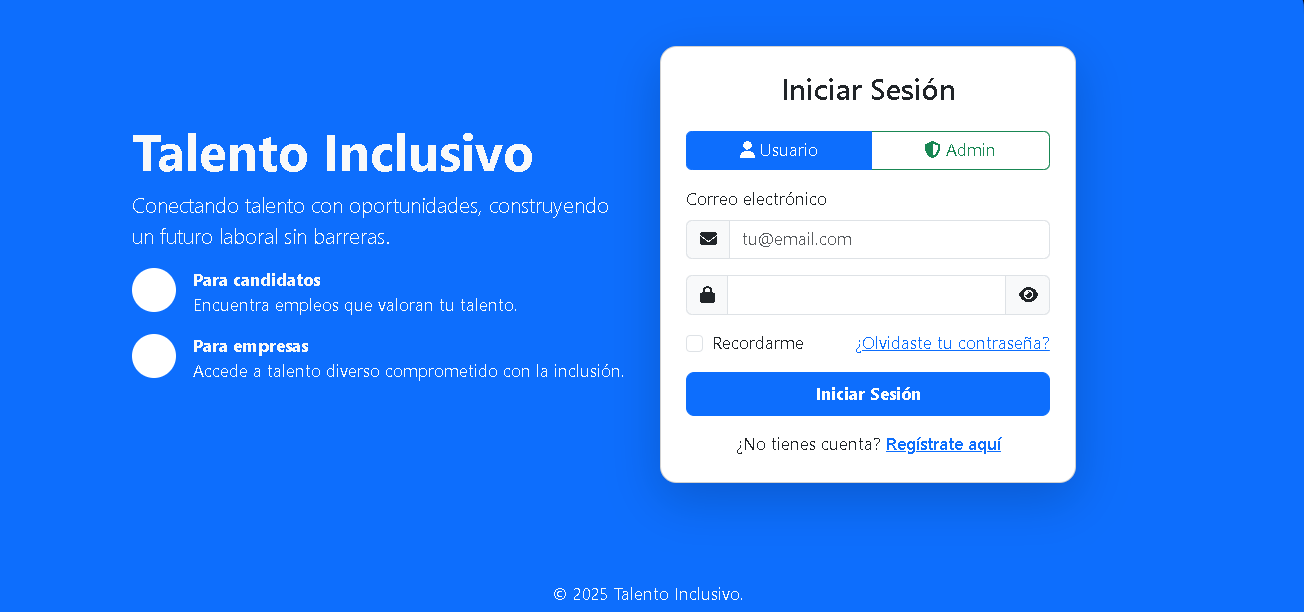
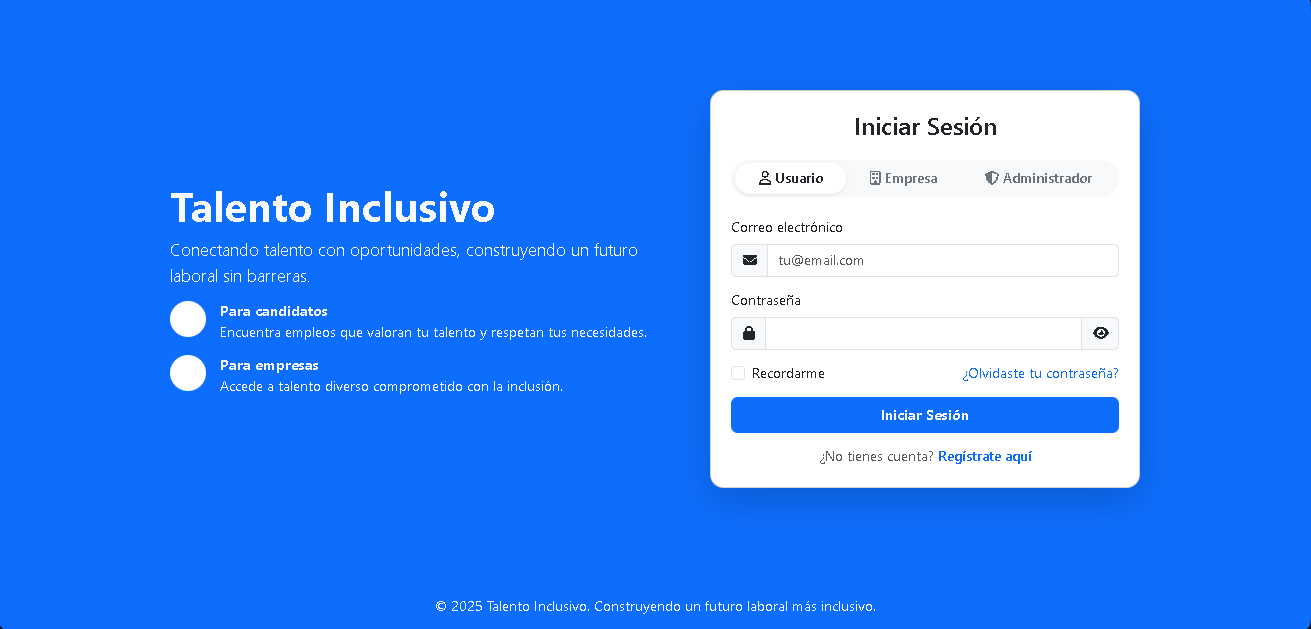
Actualizacion de la imagen preview.png

diff --git a/User/perfil.html b/User/perfil.html
@@ -1,5 +1,6 @@
 <!DOCTYPE html>
 <html lang="es">
+
 <head>
     <meta charset="UTF-8">
     <meta name="viewport" content="width=device-width, initial-scale=1.0">
@@ -29,11 +30,16 @@
 
             <div id="menu" class="collapse navbar-collapse">
                 <ul class="navbar-nav ms-auto align-items-center">
-                    <li class="nav-item"><a class="nav-link px-3" href="user_home.html"><i class="fa fa-home-alt me-1"></i> Inicio</a></li>
-                    <li class="nav-item"><a class="nav-link active fw-bold px-3" href="perfil.html"><i class="fa fa-user me-1"></i> Perfil</a></li>
-                    <li class="nav-item"><a class="nav-link px-3" href="mensajeria.html"><i class="fa fa-envelope me-1"></i> Mensajes</a></li>
-                    <li class="nav-item"><a class="nav-link px-3" href="validacion_ofertas.html"><i class="fa fa-briefcase me-1"></i> Ofertas</a></li>
-                    <li class="nav-item"><a class="nav-link px-3" href="seguimiento.html"><i class="fa fa-tasks me-1"></i> Seguimiento</a></li>
+                    <li class="nav-item"><a class="nav-link px-3" href="user_home.html"><i
+                                class="fa fa-home-alt me-1"></i> Inicio</a></li>
+                    <li class="nav-item"><a class="nav-link active fw-bold px-3" href="perfil.html"><i
+                                class="fa fa-user me-1"></i> Perfil</a></li>
+                    <li class="nav-item"><a class="nav-link px-3" href="mensajeria.html"><i
+                                class="fa fa-envelope me-1"></i> Mensajes</a></li>
+                    <li class="nav-item"><a class="nav-link px-3" href="validacion_ofertas.html"><i
+                                class="fa fa-briefcase me-1"></i> Ofertas</a></li>
+                    <li class="nav-item"><a class="nav-link px-3" href="seguimiento.html"><i
+                                class="fa fa-tasks me-1"></i> Seguimiento</a></li>
                     <li class="nav-item ms-lg-3">
                         <button class="btn btn-outline-light rounded-pill px-4 shadow-sm" id="logoutBtn">
                             <i class="fa fa-sign-out-alt me-1"></i> Salir
@@ -51,9 +57,10 @@
             <div class="col-lg-4">
                 <div class="card border-0 shadow-sm rounded-4 mb-4 text-center p-5 profile-sidebar">
                     <div class="profile-img-wrap mb-4">
-                        <img id="profilePhoto" src="https://cdn-icons-png.flaticon.com/512/149/149071.png" alt="Profile Image">
+                        <img id="profilePhoto" src="https://cdn-icons-png.flaticon.com/512/149/149071.png"
+                            alt="Profile Image">
                     </div>
-                    
+
                     <h4 class="fw-bold mb-1" id="sidebarName">Usuario</h4>
                     <p class="verified-badge mb-4">Usuario verificado</p>
 
@@ -103,10 +110,14 @@
             <div class="col-lg-8">
                 <!-- TABS NAVIGATION -->
                 <div class="bg-white p-2 rounded-4 shadow-sm mb-4 d-flex nav-segmented nav nav-pills">
-                    <button type="button" class="flex-fill nav-link active" data-bs-toggle="pill" data-bs-target="#personal">Datos Personales</button>
-                    <button type="button" class="flex-fill nav-link" data-bs-toggle="pill" data-bs-target="#disability">Discapacidad</button>
-                    <button type="button" class="flex-fill nav-link" data-bs-toggle="pill" data-bs-target="#laboral">Información Laboral</button>
-                    <button type="button" class="flex-fill nav-link" data-bs-toggle="pill" data-bs-target="#preferencias">Preferencias</button>
+                    <button type="button" class="flex-fill nav-link active" data-bs-toggle="pill"
+                        data-bs-target="#personal">Datos Personales</button>
+                    <button type="button" class="flex-fill nav-link" data-bs-toggle="pill"
+                        data-bs-target="#disability">Discapacidad</button>
+                    <button type="button" class="flex-fill nav-link" data-bs-toggle="pill"
+                        data-bs-target="#laboral">Información Laboral</button>
+                    <button type="button" class="flex-fill nav-link" data-bs-toggle="pill"
+                        data-bs-target="#preferencias">Preferencias</button>
                 </div>
 
                 <div class="tab-content">
@@ -139,7 +150,8 @@
                                     <label class="form-label">Fecha de nacimiento *</label>
                                     <div class="input-icon-wrap">
                                         <i class="fa-regular fa-calendar"></i>
-                                        <input type="text" class="form-control" id="reg-fecha-nacimiento" placeholder="DD/MM/YYYY">
+                                        <input type="text" class="form-control" id="reg-fecha-nacimiento"
+                                            placeholder="DD/MM/YYYY">
                                     </div>
                                 </div>
                                 <div class="col-12">
@@ -177,7 +189,8 @@
                                 </div>
 
                                 <div class="col-12 mt-5 d-flex gap-3">
-                                    <button type="submit" class="btn btn-primary d-flex align-items-center btn-save text-white">
+                                    <button type="submit"
+                                        class="btn btn-primary d-flex align-items-center btn-save text-white">
                                         <i class="fa-regular fa-floppy-disk me-2"></i> Guardar cambios
                                     </button>
                                     <button type="button" class="btn btn-cancel">Cancelar</button>
@@ -190,7 +203,8 @@
                     <div class="tab-pane fade" id="disability">
                         <div class="card border-0 shadow-sm rounded-4 p-4 p-md-5">
                             <div class="d-flex align-items-start mb-4">
-                                <div class="bg-primary-subtle text-primary p-2 rounded-3 me-3" style="width: 40px; height: 40px; display: flex; align-items: center; justify-content: center;">
+                                <div class="bg-primary-subtle text-primary p-2 rounded-3 me-3"
+                                    style="width: 40px; height: 40px; display: flex; align-items: center; justify-content: center;">
                                     <i class="fa-solid fa-shield-halved"></i>
                                 </div>
                                 <div>
@@ -198,12 +212,13 @@
                                     <p class="text-muted small">Datos confidenciales según ISO 9999 y RGPD</p>
                                 </div>
                             </div>
-                            
+
                             <!-- Orange Banner -->
                             <div class="alert alert-orange mb-5 d-flex align-items-start">
                                 <i class="fa-solid fa-circle-info mt-1 me-3"></i>
                                 <div>
-                                    <span class="fw-bold">Confidencialidad:</span> Esta información solo se compartirá con empresas cuando tú autorices explícitamente durante un proceso de postulación.
+                                    <span class="fw-bold">Confidencialidad:</span> Esta información solo se compartirá
+                                    con empresas cuando tú autorices explícitamente durante un proceso de postulación.
                                 </div>
                             </div>
 
@@ -227,42 +242,51 @@
                                 <div class="col-12">
                                     <label class="form-label">Número de certificado de discapacidad</label>
                                     <input type="text" class="form-control" id="reg-num-certificado">
-                                    <small class="text-muted d-block mt-1">Requerido para validación oficial (ISO 30415)</small>
+                                    <small class="text-muted d-block mt-1">Requerido para validación oficial (ISO
+                                        30415)</small>
                                 </div>
                                 <div class="col-12">
                                     <label class="form-label">Fecha de vencimiento del certificado</label>
                                     <div class="input-icon-wrap">
                                         <i class="fa-regular fa-calendar"></i>
-                                        <input type="text" class="form-control" id="reg-vencimiento-certificado" placeholder="DD/MM/YYYY">
+                                        <input type="text" class="form-control" id="reg-vencimiento-certificado"
+                                            placeholder="DD/MM/YYYY">
                                     </div>
                                 </div>
                                 <div class="col-12">
-                                    <label class="form-label">Adaptaciones o productos de apoyo necesarios (ISO 9999)</label>
+                                    <label class="form-label">Adaptaciones o productos de apoyo necesarios (ISO
+                                        9999)</label>
                                     <textarea class="form-control" id="reg-adaptaciones" rows="3"></textarea>
                                 </div>
 
                                 <div class="col-12 mt-4">
-                                    <p class="fw-bold text-dark mb-3">Asistencia requerida en el entorno laboral (ISO 21542)</p>
+                                    <p class="fw-bold text-dark mb-3">Asistencia requerida en el entorno laboral (ISO
+                                        21542)</p>
                                     <div class="form-check mb-3">
                                         <input class="form-check-input" type="checkbox" id="assist-accesibilidad">
-                                        <label class="form-check-label small ms-2">Accesibilidad física (rampas, ascensores, baños adaptados)</label>
+                                        <label class="form-check-label small ms-2">Accesibilidad física (rampas,
+                                            ascensores, baños adaptados)</label>
                                     </div>
                                     <div class="form-check mb-3">
                                         <input class="form-check-input" type="checkbox" id="assist-tecnologia">
-                                        <label class="form-check-label small ms-2">Tecnología asistiva (lectores de pantalla, magnificadores)</label>
+                                        <label class="form-check-label small ms-2">Tecnología asistiva (lectores de
+                                            pantalla, magnificadores)</label>
                                     </div>
                                     <div class="form-check mb-3">
                                         <input class="form-check-input" type="checkbox" id="assist-interprete">
-                                        <label class="form-check-label small ms-2">Intérprete de lengua de señas o subtítulos</label>
+                                        <label class="form-check-label small ms-2">Intérprete de lengua de señas o
+                                            subtítulos</label>
                                     </div>
                                     <div class="form-check">
                                         <input class="form-check-input" type="checkbox" id="assist-remoto">
-                                        <label class="form-check-label small ms-2">Horario flexible o trabajo remoto</label>
+                                        <label class="form-check-label small ms-2">Horario flexible o trabajo
+                                            remoto</label>
                                     </div>
                                 </div>
 
                                 <div class="col-12 mt-5 d-flex gap-3">
-                                    <button type="submit" class="btn btn-primary d-flex align-items-center btn-save text-white">
+                                    <button type="submit"
+                                        class="btn btn-primary d-flex align-items-center btn-save text-white">
                                         <i class="fa-regular fa-floppy-disk me-2"></i> Guardar cambios
                                     </button>
                                     <button type="button" class="btn btn-cancel">Cancelar</button>
@@ -275,7 +299,8 @@
                     <div class="tab-pane fade" id="laboral">
                         <div class="card border-0 shadow-sm rounded-4 p-4 p-md-5">
                             <div class="d-flex align-items-center mb-5">
-                                <div class="bg-primary-subtle text-primary p-2 rounded-3 me-3" style="width: 40px; height: 40px; display: flex; align-items: center; justify-content: center;">
+                                <div class="bg-primary-subtle text-primary p-2 rounded-3 me-3"
+                                    style="width: 40px; height: 40px; display: flex; align-items: center; justify-content: center;">
                                     <i class="fa-solid fa-briefcase"></i>
                                 </div>
                                 <h5 class="fw-bold mb-0">Información Laboral y Académica</h5>
@@ -319,10 +344,13 @@
                                             <i class="fa-regular fa-file-lines fa-2x"></i>
                                         </div>
                                         <div class="flex-grow-1">
-                                            <p class="fw-bold text-dark mb-1" id="cvFileName">No se ha subido ningún CV</p>
-                                            <p class="text-muted small mb-0" id="cvFileMeta">Sube tu archivo en formato PDF</p>
+                                            <p class="fw-bold text-dark mb-1" id="cvFileName">No se ha subido ningún CV
+                                            </p>
+                                            <p class="text-muted small mb-0" id="cvFileMeta">Sube tu archivo en formato
+                                                PDF</p>
                                         </div>
-                                        <button type="button" class="btn btn-reemplazar ms-auto" onclick="document.getElementById('cvInput').click()">
+                                        <button type="button" class="btn btn-reemplazar ms-auto"
+                                            onclick="document.getElementById('cvInput').click()">
                                             Subir / Reemplazar
                                         </button>
                                     </div>
@@ -330,7 +358,8 @@
                                 </div>
 
                                 <div class="col-12 mt-5 border-top pt-5 d-flex gap-3">
-                                    <button type="submit" class="btn btn-primary d-flex align-items-center btn-save text-white">
+                                    <button type="submit"
+                                        class="btn btn-primary d-flex align-items-center btn-save text-white">
                                         <i class="fa-regular fa-floppy-disk me-2"></i> Guardar cambios
                                     </button>
                                     <button type="button" class="btn btn-cancel">Cancelar</button>
@@ -343,7 +372,8 @@
                     <div class="tab-pane fade" id="preferencias">
                         <div class="card border-0 shadow-sm rounded-4 p-4 p-md-5">
                             <div class="d-flex align-items-center mb-5">
-                                <div class="bg-primary-subtle text-primary p-2 rounded-3 me-3" style="width: 40px; height: 40px; display: flex; align-items: center; justify-content: center;">
+                                <div class="bg-primary-subtle text-primary p-2 rounded-3 me-3"
+                                    style="width: 40px; height: 40px; display: flex; align-items: center; justify-content: center;">
                                     <i class="fa-solid fa-ribbon"></i>
                                 </div>
                                 <h5 class="fw-bold mb-0">Preferencias Laborales y Privacidad</h5>
@@ -369,40 +399,54 @@
                                     </div>
                                     <div class="mb-5">
                                         <label class="form-label">Expectativa salarial mensual (Soles)</label>
-                                        <input type="text" class="form-control" id="reg-salario" placeholder="Ej: S/ 3500 - S/ 4500">
+                                        <input type="text" class="form-control" id="reg-salario"
+                                            placeholder="Ej: S/ 3500 - S/ 4500">
                                     </div>
                                 </div>
 
                                 <div class="col-12 border-top pt-5">
-                                    <p class="fw-bold text-dark mb-4">Configuración de privacidad (RGPD)</p>
-                                    
+                                    <p class="fw-bold text-dark mb-4">Configuración de privacidad según la ley N.º 29733
+                                    </p>
+
                                     <div class="card border-0 bg-white border p-4 rounded-4 mb-5">
                                         <div class="form-check d-flex mb-4">
-                                            <input class="form-check-input mt-1" type="checkbox" id="privacy-visible" checked>
+                                            <input class="form-check-input mt-1" type="checkbox" id="privacy-visible"
+                                                checked>
                                             <div class="ms-3">
-                                                <label class="form-check-label fw-bold d-block mb-1">Perfil visible para empresas</label>
-                                                <span class="text-muted small">Permitir que empresas certificadas vean mi perfil profesional</span>
+                                                <label class="form-check-label fw-bold d-block mb-1">Perfil visible para
+                                                    empresas</label>
+                                                <span class="text-muted small">Permitir que empresas certificadas vean
+                                                    mi perfil profesional</span>
                                             </div>
                                         </div>
                                         <div class="form-check d-flex mb-4">
-                                            <input class="form-check-input mt-1" type="checkbox" id="privacy-disability" checked>
+                                            <input class="form-check-input mt-1" type="checkbox" id="privacy-disability"
+                                                checked>
                                             <div class="ms-3">
-                                                <label class="form-check-label fw-bold d-block mb-1">Compartir información de discapacidad</label>
-                                                <span class="text-muted small">Solo durante procesos de postulación activos</span>
+                                                <label class="form-check-label fw-bold d-block mb-1">Compartir
+                                                    información de discapacidad</label>
+                                                <span class="text-muted small">Solo durante procesos de postulación
+                                                    activos</span>
                                             </div>
                                         </div>
                                         <div class="form-check d-flex mb-4">
-                                            <input class="form-check-input mt-1" type="checkbox" id="privacy-alerts" checked>
+                                            <input class="form-check-input mt-1" type="checkbox" id="privacy-alerts"
+                                                checked>
                                             <div class="ms-3">
-                                                <label class="form-check-label fw-bold d-block mb-1">Alertas de empleo</label>
-                                                <span class="text-muted small">Recibir notificaciones de ofertas que coincidan con mi perfil</span>
+                                                <label class="form-check-label fw-bold d-block mb-1">Alertas de
+                                                    empleo</label>
+                                                <span class="text-muted small">Recibir notificaciones de ofertas que
+                                                    coincidan con mi perfil</span>
                                             </div>
                                         </div>
                                         <div class="form-check d-flex">
-                                            <input class="form-check-input mt-1" type="checkbox" id="privacy-newsletter">
+                                            <input class="form-check-input mt-1" type="checkbox"
+                                                id="privacy-newsletter">
                                             <div class="ms-3">
-                                                <label class="form-check-label fw-bold d-block mb-1">Boletín informativo</label>
-                                                <span class="text-muted small">Recibir novedades sobre inclusión laboral y formación</span>
+                                                <label class="form-check-label fw-bold d-block mb-1">Boletín
+                                                    informativo</label>
+                                                <span class="text-muted small">Recibir novedades sobre inclusión laboral
+                                                    y formación</span>
                                             </div>
                                         </div>
                                     </div>
@@ -411,9 +455,10 @@
                                 <!-- RGPD Green Box -->
                                 <div class="col-12">
                                     <div class="bg-rgpd-green shadow-sm">
-                                        <p class="fw-bold mb-3">Tus derechos RGPD</p>
+                                        <p class="fw-bold mb-3">Tus derechos según la Ley N.º 29733</p>
                                         <ul>
-                                            <li>Puedes acceder, rectificar o eliminar tus datos en cualquier momento</li>
+                                            <li>Puedes acceder, rectificar o eliminar tus datos en cualquier momento
+                                            </li>
                                             <li>Tienes derecho a la portabilidad de tus datos</li>
                                             <li>Puedes revocar consentimientos sin afectar tratamientos previos</li>
                                             <li>Contacta con nosotros: [email redacted]</li>
@@ -422,7 +467,8 @@
                                 </div>
 
                                 <div class="col-12 mt-5 pt-4 d-flex gap-3">
-                                    <button type="submit" class="btn btn-primary d-flex align-items-center btn-save text-white">
+                                    <button type="submit"
+                                        class="btn btn-primary d-flex align-items-center btn-save text-white">
                                         <i class="fa-regular fa-floppy-disk me-2"></i> Guardar cambios
                                     </button>
                                     <button type="button" class="btn btn-cancel">Cancelar</button>
@@ -437,7 +483,8 @@
 
     <!-- Toast de Éxito -->
     <div class="position-fixed bottom-0 end-0 p-3" style="z-index: 1100;">
-        <div id="saveAlert" class="toast align-items-center text-white bg-success border-0 rounded-4 shadow-lg" role="alert">
+        <div id="saveAlert" class="toast align-items-center text-white bg-success border-0 rounded-4 shadow-lg"
+            role="alert">
             <div class="d-flex p-3">
                 <i class="fa-solid fa-circle-check me-3 fa-lg mt-1"></i>
                 <div class="toast-body fw-bold">Perfil actualizado exitosamente.</div>
@@ -452,4 +499,5 @@
     <script src="../BD/data.js"></script>
     <script src="perfil.js"></script>
 </body>
+
 </html>